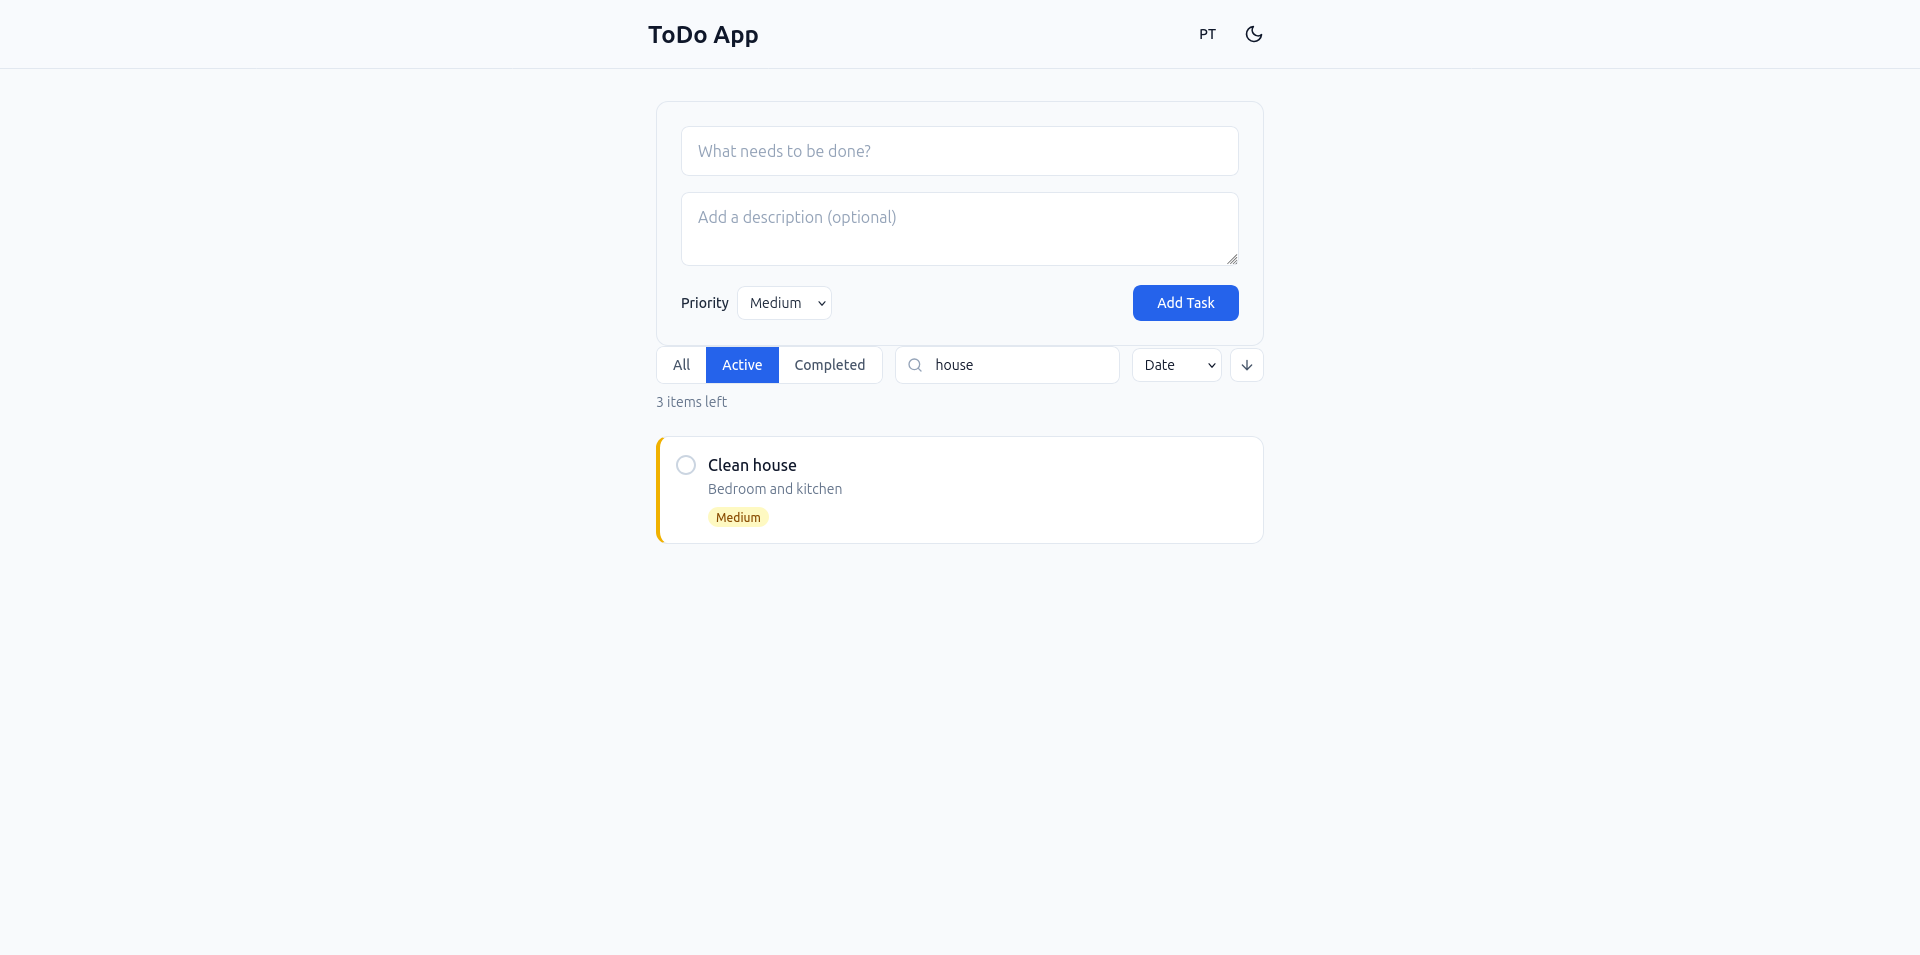
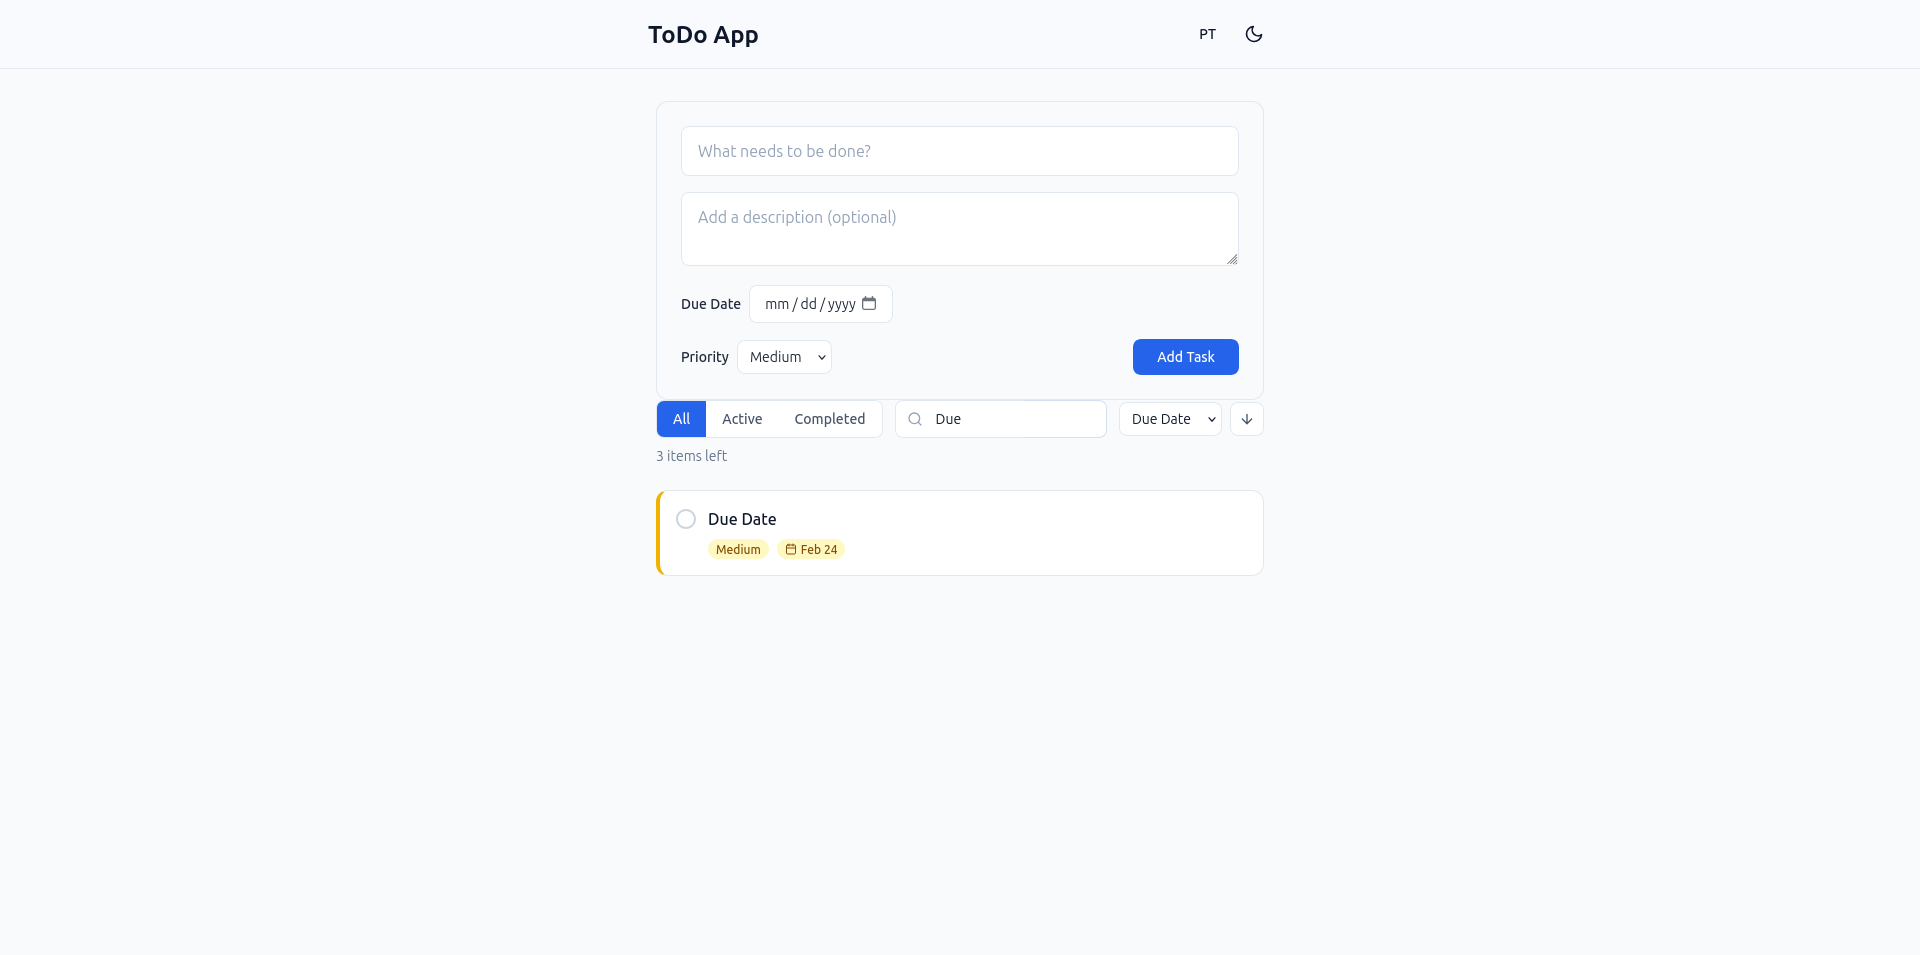
feat: add due date functionality to todos with sorting and filtering options.
Also corrects the Portuguese language code in README.

diff --git a/src/app/core/services/todo.service.ts b/src/app/core/services/todo.service.ts
@@ -9,12 +9,11 @@ export class TodoService {
 
   private _todos = signal<Todo[]>(this.storage.get<Todo[]>(this.storageKey) ?? []);
 
-  todos = this._todos.asReadonly(); // Expose as readonly to prevent external mutation
+  todos = this._todos.asReadonly();
 
-  activeCount = computed(() => this.todos().filter((todo) => !todo.completed).length); // Number of active (not completed) todos
-  completedCount = computed(() => this.todos().filter((todo) => todo.completed).length); // Number of completed todos
+  activeCount = computed(() => this.todos().filter((todo) => !todo.completed).length);
+  completedCount = computed(() => this.todos().filter((todo) => todo.completed).length);
 
-  // Computed property to get filtered and sorted todos based on the current filter
   private _filter = signal<TodoFilter>({
     status: 'all',
     searchTerm: '',
@@ -22,17 +21,17 @@ export class TodoService {
     sortOrder: 'desc',
   });
 
-  filter = this._filter.asReadonly(); // Expose filter as readonly to prevent external mutation
+  filter = this._filter.asReadonly();
 
   filteredTodos = computed(() => {
-    const todos = this._todos(); // Get the current list of todos
-    const f = this._filter(); // Get the current filter settings
+    const todos = this._todos();
+    const f = this._filter();
 
     return todos
       .filter((t) => {
-        if (f.status === 'active') return !t.completed; // Show only active todos
-        if (f.status === 'completed') return t.completed; // Show only completed todos
-        return true; // Show all todos
+        if (f.status === 'active') return !t.completed;
+        if (f.status === 'completed') return t.completed;
+        return true;
       })
       .filter((t) =>
         f.searchTerm
@@ -41,33 +40,39 @@ export class TodoService {
           : true,
       )
       .sort((a, b) => {
-        const order = f.sortOrder === 'asc' ? 1 : -1; // Determine sort order
+        const order = f.sortOrder === 'asc' ? 1 : -1;
 
         if (f.sortBy === 'priority') {
-          const priorityOrder = { low: 1, medium: 2, high: 3 }; // Define priority order
-          return (priorityOrder[a.priority] - priorityOrder[b.priority]) * order; // Sort by priority
+          const priorityOrder = { low: 1, medium: 2, high: 3 };
+          return (priorityOrder[a.priority] - priorityOrder[b.priority]) * order;
         }
-        return (new Date(a.createdAt).getTime() - new Date(b.createdAt).getTime()) * order; // Sort by creation date
+
+        if (f.sortBy === 'dueDate') {
+          if (!a.dueDate) return 1;
+          if (!b.dueDate) return -1;
+          return (new Date(a.dueDate).getTime() - new Date(b.dueDate).getTime()) * order;
+        }
+        return (new Date(a.createdAt).getTime() - new Date(b.createdAt).getTime()) * order;
       });
   });
 
-  // Method to update an existing todo
   private persist(): void {
-    this.storage.set(this.storageKey, this._todos()); // Save the current list of todos to storage
+    this.storage.set(this.storageKey, this._todos());
   }
 
-  add(data: { title: string; description?: string; priority: Priority }): void {
+  add(data: { title: string; description?: string; priority: Priority; dueDate?: string }): void {
     const newTodo: Todo = {
-      id: crypto.randomUUID(), // Generate a unique ID for the new todo
+      id: crypto.randomUUID(),
       title: data.title,
       description: data.description,
       completed: false,
       priority: data.priority,
+      dueDate: data.dueDate,
       createdAt: new Date().toISOString(),
       updatedAt: new Date().toISOString(),
     };
-    this._todos.update((todos) => [newTodo, ...todos]); // Add the new todo to the beginning of the list
-    this.persist(); // Save the updated list to storage
+    this._todos.update((todos) => [newTodo, ...todos]);
+    this.persist();
   }
 
   update(id: string, changes: Partial<Omit<Todo, 'id' | 'createdAt'>>): void {
@@ -75,13 +80,13 @@ export class TodoService {
       todos.map((t) =>
         t.id === id ? { ...t, ...changes, updatedAt: new Date().toISOString() } : t,
       ),
-    ); // Update the specified todo with the changes
-    this.persist(); // Save the updated list to storage
+    );
+    this.persist();
   }
 
   delete(id: string): void {
-    this._todos.update((todos) => todos.filter((t) => t.id !== id)); // Remove the specified todo from the list
-    this.persist(); // Save the updated list to storage
+    this._todos.update((todos) => todos.filter((t) => t.id !== id));
+    this.persist();
   }
 
   toggleComplete(id: string): void {
@@ -89,17 +94,17 @@ export class TodoService {
       (todos) =>
         todos.map((t) =>
           t.id === id ? { ...t, completed: !t.completed, updatedAt: new Date().toISOString() } : t,
-        ), // Toggle the completion status of the specified todo
+        ),
     );
-    this.persist(); // Save the updated list to storage
+    this.persist();
   }
 
   clearCompleted(): void {
     this._todos.update((todos) => todos.filter((t) => !t.completed));
-    this.persist(); // Save the updated list to storage
+    this.persist();
   }
 
   updateFilter(changes: Partial<TodoFilter>): void {
-    this._filter.update((f) => ({ ...f, ...changes })); // Update the filter settings with the provided changes
+    this._filter.update((f) => ({ ...f, ...changes }));
   }
 }

diff --git a/src/app/features/todo/components/todo-form/todo-form.component.ts b/src/app/features/todo/components/todo-form/todo-form.component.ts
@@ -13,10 +13,10 @@ export class TodoFormComponent {
   private fb = inject(FormBuilder);
 
   submitted = signal(false);
-  
-  editTodo = input<{ title: string; description?: string; priority: Priority } | null>(null);
 
-  todoCreated = output<{ title: string; description?: string; priority: Priority }>();
+  editTodo = input<{ title: string; description?: string; priority: Priority, dueDate?: string } | null>(null);
+
+  todoCreated = output<{ title: string; description?: string; priority: Priority, dueDate?: string }>();
 
   cancelled = output<void>();
 
@@ -24,6 +24,7 @@ export class TodoFormComponent {
     title: ['', [Validators.required, Validators.minLength(3)]],
     description: [''],
     priority: ['medium' as Priority],
+    dueDate: [''],
   });
 
   constructor() {
@@ -35,6 +36,7 @@ export class TodoFormComponent {
           title: todo.title,
           description: todo.description ?? '',
           priority: todo.priority,
+          dueDate: todo.dueDate ?? '',
         });
       }
     });
@@ -51,10 +53,11 @@ export class TodoFormComponent {
       title: this.form.value.title!,
       description: this.form.value.description || undefined,
       priority: this.form.value.priority!,
+      dueDate: this.form.value.dueDate || undefined,
     });
 
     if (!this.editTodo()) {
-      this.form.reset({ title: '', description: '', priority: 'medium' });
+      this.form.reset({ title: '', description: '', priority: 'medium', dueDate: '' });
       this.submitted.set(false);
     }
   }

diff --git a/src/app/features/todo/components/todo-item/todo-item.component.ts b/src/app/features/todo/components/todo-item/todo-item.component.ts
@@ -14,15 +14,34 @@ export class TodoItemComponent {
 
   toggled = output<string>();
   deleted = output<string>();
-  edited = output<{ id: string; title: string; description?: string; priority: Priority }>();
+  edited = output<{ id: string; title: string; description?: string; priority: Priority; dueDate?: string }>();
 
   isEditing = signal(false);
   showDeleteConfirm = signal(false);
 
 
-  onEdit(data: { title: string; description?: string; priority: Priority }): void {
+  onEdit(data: { title: string; description?: string; priority: Priority; dueDate?: string }): void {
     this.edited.emit({ id: this.todo().id, ...data });
     this.isEditing.set(false);
+  }
+
+  dueDateClass(): string {
+    const due = new Date(this.todo().dueDate!);
+    const today = new Date();
+    today.setHours(0, 0, 0, 0);
+    due.setHours(0, 0, 0, 0);
+
+    const diffDays = Math.ceil((due.getTime() - today.getTime()) / (1000 * 60 * 60 * 24));
+
+    if (diffDays < 0) return 'bg-red-100 text-red-800 dark:bg-red-900/40 dark:text-red-300';
+    if (diffDays <= 2) return 'bg-yellow-100 text-yellow-800 dark:bg-yellow-900/40 dark:text-yellow-300';
+
+    return 'bg-surface-100 text-surface-600 dark:bg-surface-800 dark:text-surface-400';
+  }
+
+  formatDueDate(): string {
+    const due = new Date(this.todo().dueDate! + 'T00:00:00');
+    return due.toLocaleDateString(undefined, { day: 'numeric', month: 'short' });
   }
 
   priorityBorderClass(): string {

diff --git a/src/app/features/todo/components/todo-form/todo-form.component.html b/src/app/features/todo/components/todo-form/todo-form.component.html
@@ -24,6 +24,16 @@
       placeholder-surface-400 dark:placeholder-surface-500 transition-all duration-200 outline-none"></textarea>
   </div>
 
+  <div class="flex items-center gap-2">
+    <label for="dueDate" class="text-sm font-medium text-surface-700 dark:text-surface-300">
+      {{ 'todo.due_date' | translate }}
+    </label>
+    <input formControlName="dueDate" type="date" id="dueDate"
+          class="px-3 py-2 rounded-lg bg-white dark:bg-surface-800 border border-surface-200 dark:border-surface-700 focus:border-primary-500
+          focus:ring-2 focus:ring-primary-500/20 dark:focus:border-primary-400 text-sm text-surface-700 dark:text-surface-300 transition-all duration-200 outline-none"
+    />
+  </div>
+
   <div class="flex flex-col sm:flex-row gap-3 sm:items-center sm:justify-between">
     <div class="flex items-center gap-2">
       <label for="priority" class="text-sm font-medium text-surface-700 dark:text-surface-300">{{ 'priority.label' | translate }}</label>

diff --git a/src/app/features/todo/components/todo-item/todo-item.component.html b/src/app/features/todo/components/todo-item/todo-item.component.html
@@ -43,6 +43,20 @@
                 [class]="priorityBadgeClass()">
             {{ 'priority.' + todo().priority | translate }}
           </span>
+
+          @if (todo().dueDate) {
+            <span class="inline-flex items-center gap-1 px-2 py-0.5 rounded-full text-xs font-medium"
+                  [class]="dueDateClass()">
+              <svg class="w-3 h-3" viewBox="0 0 24 24" fill="none" stroke="currentColor" stroke-width="2" stroke-linecap="round"
+                stroke-linejoin="round">
+                <rect x="3" y="4" width="18" height="18" rx="2" ry="2" />
+                <line x1="16" y1="2" x2="16" y2="6" />
+                <line x1="8" y1="2" x2="8" y2="6" />
+                <line x1="3" y1="10" x2="21" y2="10" />
+              </svg>
+              {{ formatDueDate() }}
+            </span>
+          }
         </div>
       </div>
 

diff --git a/src/app/features/todo/todo-page.component.ts b/src/app/features/todo/todo-page.component.ts
@@ -20,12 +20,12 @@ export class TodoPageComponent {
   private toast = inject(ToastService);
   private i18n = inject(I18nService);
 
-  onTodoCreated(data: { title: string; description?: string; priority: Priority }): void {
+  onTodoCreated(data: { title: string; description?: string; priority: Priority; dueDate?: string }): void {
     this.todoService.add(data);
     this.toast.show(this.i18n.translate('todo.created'), 'success');
   }
 
-  onTodoEdited(data: { id: string; title: string; description?: string; priority: Priority }): void {
+  onTodoEdited(data: { id: string; title: string; description?: string; priority: Priority; dueDate?: string }): void {
     const { id, ...updateData } = data;
     this.todoService.update(id, updateData);
     this.toast.show(this.i18n.translate('todo.updated'), 'success');

diff --git a/src/app/features/todo/components/todo-filters/todo-filters.component.html b/src/app/features/todo/components/todo-filters/todo-filters.component.html
@@ -28,6 +28,7 @@
                   transition-all duration-200 outline-none cursor-pointer">
       <option value="createdAt">{{ 'filter.date' | translate }}</option>
       <option value="priority">{{ 'filter.priority' | translate }}</option>
+      <option value="dueDate">{{ 'filter.due_date' | translate }}</option>
     </select>
 
     <button (click)="onSortOrderChange()" class="p-2 rounded-lg border border-surface-200 dark:border-surface-800 bg-white dark:bg-surface-900 text-surface-600 dark:text-surface-400 hover:bg-surface-100 dark:hover:bg-surface-800

diff --git a/src/app/core/models/todo.model.ts b/src/app/core/models/todo.model.ts
@@ -4,6 +4,7 @@ export interface Todo {
   description?: string;
   completed: boolean;
   priority: Priority;
+  dueDate?: string;
   createdAt: string;
   updatedAt: string;
 }
@@ -12,7 +13,7 @@ export type Priority = 'low' | 'medium' | 'high';
 
 export type FilterStatus = 'all' | 'active' | 'completed';
 
-export type SortField = 'createdAt' | 'priority';
+export type SortField = 'createdAt' | 'priority' | 'dueDate';
 export type SortOrder = 'asc' | 'desc';
 
 export interface TodoFilter {

diff --git a/README.md b/README.md
@@ -16,9 +16,10 @@ A modern task management application built as a technical assessment for **Domow
 - Full CRUD (create, read, update, delete tasks)
 - Filter by status (All / Active / Completed)
 - Search tasks by title or description
-- Sort by date or priority (ascending/descending)
+- Sort by date, priority, or due date (ascending/descending)
+- Due dates with color-coded badges (overdue, upcoming, on time)
 - Dark / Light theme with system preference detection
-- Internationalization (English & Português PT-PT)
+- Internationalization (English & Português EN-PT)
 - Data persistence with localStorage
 - Fully responsive (mobile & desktop)
 
@@ -157,6 +158,5 @@ Roadmap (if more time)
 
 - User authentication with route guards
 - Drag & drop to reorder tasks
-- Due dates with calendar picker
 - Categories/tags for tasks
 - Export/import tasks (JSON)
